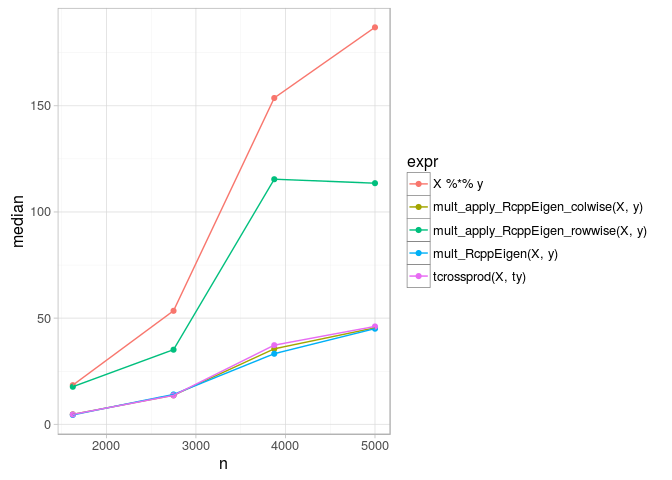
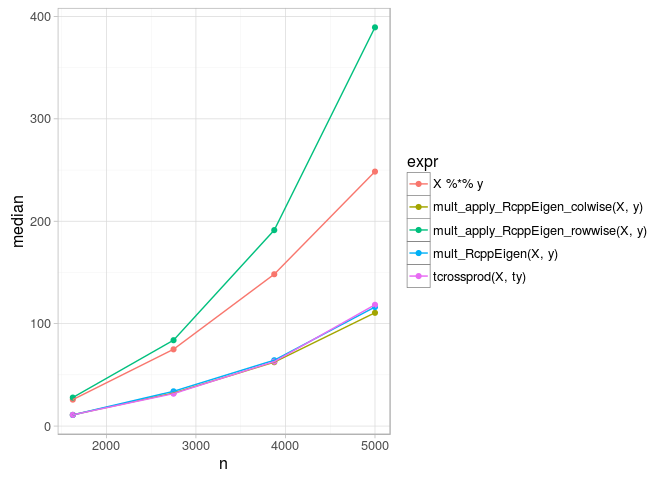
added parallel version

diff --git a/hpc/Rcpp/projects/03-RcppEigen/src/par_mult_apply_Rcpp_colwise.cpp b/hpc/Rcpp/projects/03-RcppEigen/src/par_mult_apply_Rcpp_colwise.cpp
@@ -1,0 +1,71 @@
+#include <Rcpp.h>
+
+// [[Rcpp::depends(RcppParallel)]]
+#include <RcppParallel.h>
+
+using namespace RcppParallel;
+using namespace Rcpp;
+
+struct ParMultApplyRcppColwise : public Worker
+{
+  // source matrix & vector
+  const NumericMatrix & mat;
+  const NumericVector & vec;
+  
+  // destination vector
+  NumericVector & rvec;
+
+  unsigned int nchunks; 
+     
+  // initialize 
+  ParMultApplyRcppColwise(const NumericMatrix & mat, const NumericVector & vec, NumericVector & rvec)
+    : mat(mat), vec(vec), rvec(rvec), nchunks(0) {}
+   
+  // do multiplication using loops
+  void operator()(std::size_t begin, std::size_t end) 
+  {
+    int N = mat.nrow();
+    
+    // `for` version
+    for(int j = begin; j < end; j++) {
+      double a = vec(j);
+      for(int i = 0; i < N; i++) {
+        rvec(i) += a * mat(i, j);
+      }
+    }
+    
+    ++nchunks;
+  }
+};
+
+
+// [[Rcpp::export]]
+NumericVector par_mult_apply_Rcpp_colwise(const NumericMatrix & mat, 
+  const NumericVector & vec, unsigned int chunkSize = 1, unsigned int verbose = 0)
+{
+  // variables
+  int N = mat.nrow(), K = mat.ncol();
+  
+  // allocate the vector to be returned
+  NumericVector rvec(N);
+    
+  // fill with zeros
+  for(int i = 0; i < N; i++) {
+    rvec[i] = 0;
+  }
+
+  // create the worker
+  ParMultApplyRcppColwise mult(mat, vec, rvec);
+     
+  // call it with parallelFor
+  parallelFor(0, K, mult, chunkSize);
+  
+  // print diagnostics
+  if(verbose > 0) {
+    Rcout << "#chunks: " << mult.nchunks << std::endl;
+  }
+  
+  // return  
+  return(rvec);
+  
+}

diff --git a/hpc/Rcpp/projects/03-RcppEigen/src/mult_apply_Rcpp_colwise.cpp b/hpc/Rcpp/projects/03-RcppEigen/src/mult_apply_Rcpp_colwise.cpp
@@ -28,7 +28,7 @@ NumericVector mult_apply_Rcpp_colwise(const NumericMatrix & mat,
     for(int j = 0; j < K; j++) {
       double a = vec(j);
       for(int i = 0; i < N; i++) {
-        rvec[i] +=  a * mat(i, j);
+        rvec(i) +=  a * mat(i, j);
       }
     }
   }

diff --git a/hpc/Rcpp/projects/03-RcppEigen/03-RcppEigen.md b/hpc/Rcpp/projects/03-RcppEigen/03-RcppEigen.md
@@ -15,7 +15,9 @@ Andrey Ziyatdinov
 library(microbenchmark)
 
 library(Rcpp)
+library(RcppParallel)
 ```
+
 # Column-wise storage
 
 
@@ -31,7 +33,9 @@ tX <- t(X)
 ty <- t(y)
 ```
 
-## Multiplication using `%*%`
+## Multiplication functions
+
+### Multiplication using `%*%`
 
 
 ```r
@@ -50,7 +54,7 @@ str(ty %*% tX)
  num [1, 1:1000] 2.53 2.46 2.79 2.16 2.05 ...
 ```
 
-## Multiplication using apply
+### Multiplication using apply
 
 
 ```r
@@ -71,7 +75,7 @@ str(mult_apply(X, y))
  num [1:1000] 2.53 2.46 2.79 2.16 2.05 ...
 ```
 
-## Multiplication using `crossprod`
+### Multiplication using `crossprod`
 
 
 ```r
@@ -99,7 +103,7 @@ str(crossprod(tX, y))
  num [1:1000, 1] 2.53 2.46 2.79 2.16 2.05 ...
 ```
 
-## Multiplication using `mult_RcppEigen`
+### Multiplication using `mult_RcppEigen`
 
 
 ```r
@@ -115,7 +119,7 @@ str(mult_RcppEigen(X, y))
  num [1:1000] 2.53 2.46 2.79 2.16 2.05 ...
 ```
 
-## Multiplication using `mult_apply_RcppEigen_colwise`
+### Multiplication using `mult_apply_RcppEigen_colwise`
 
 
 ```r
@@ -131,7 +135,7 @@ str(mult_apply_RcppEigen_colwise(X, y))
  num [1:1000] 2.53 2.46 2.79 2.16 2.05 ...
 ```
 
-## Multiplication using `mult_apply_RcppEigen_rowwise`
+### Multiplication using `mult_apply_RcppEigen_rowwise`
 
 
 ```r
@@ -147,7 +151,7 @@ str(mult_apply_RcppEigen_rowwise(X, y))
  num [1:1000] 2.53 2.46 2.79 2.16 2.05 ...
 ```
 
-## Multiplication using `mult_apply_Rcpp_rowwise`
+### Multiplication using `mult_apply_Rcpp_rowwise`
 
 
 ```r
@@ -163,7 +167,52 @@ str(mult_apply_Rcpp_rowwise(X, y))
  num [1:1000] 2.53 2.46 2.79 2.16 2.05 ...
 ```
 
-## Multiplication using `mult_apply_Rcpp_rowwise`
+### Multiplication using `par_mult_apply_Rcpp_rowwise`
+
+
+```r
+sourceCpp("src/par_mult_apply_Rcpp_colwise.cpp") 
+```
+
+
+```r
+str(par_mult_apply_Rcpp_colwise(X, y, chunkSize = 1, verbose = 1))
+```
+
+```
+#chunks: 10
+ num [1:1000] 2.53 2.46 2.79 2.16 2.05 ...
+```
+
+```r
+str(par_mult_apply_Rcpp_colwise(X, y, chunkSize = ncol(X), verbose = 1))
+```
+
+```
+#chunks: 1
+ num [1:1000] 2.53 2.46 2.79 2.16 2.05 ...
+```
+
+
+#### Wrapper `par_mult_apply_Rcpp_rowwise`
+
+
+
+```r
+wrap_par_mult_apply_Rcpp_colwise <- function(..., cores = -1, chunkSize = 1)
+{
+  stopifnot(require(RcppParallel))
+  
+  if(!missing(cores)) { 
+    RcppParallel::setThreadOptions(numThreads = cores)
+  }
+  
+  par_mult_apply_Rcpp_colwise(..., chunkSize = chunkSize)
+}
+```
+
+
+### Multiplication using `mult_apply_Rcpp_rowwise`
 
 
 ```r
@@ -178,6 +227,7 @@ str(mult_apply_Rcpp_colwise(X, y))
 ```
  num [1:1000] 2.53 2.46 2.79 2.16 2.05 ...
 ```
+
 
 ## Benchmarks (k << n)
 
@@ -317,3 +367,105 @@ ggplot(subset(df, n > 1000 & !(expr %in% c("X %*% y", "mult_apply_RcppEigen_roww
 ```
 
 ![](figures/bench2_plot_3-1.png) 
+
+## Benchmarks (k == n, parallel)
+
+
+```r
+nseq <- seq(500, 5000, length = 5)
+df <- ldply(nseq, function(n) {
+  n <- ceiling(n)
+  k <- n
+
+  set.seed(1)
+  X <- matrix(runif(n * k), nrow = n, ncol = k)
+  y <- runif(k)
+
+  tX <- t(X)
+  ty <- t(y)
+  
+  cat(" * n:", n, "\n")
+  
+  out <- microbenchmark(
+    mult_RcppEigen(X, y),
+    mult_apply_Rcpp_colwise(X, y), 
+    wrap_par_mult_apply_Rcpp_colwise(X, y, chunkSize = n, cores = 1),
+    wrap_par_mult_apply_Rcpp_colwise(X, y, cores = 2),  
+    times = 10)
+  
+  df <- subset(as.data.frame(summary(out)), select = c("expr", "median"))
+  df$n <- n
+  
+  return(df)
+})  
+```
+
+```
+ * n: 500 
+ * n: 1625 
+ * n: 2750 
+ * n: 3875 
+ * n: 5000 
+```
+
+
+
+```r
+ggplot(df, aes(n, median, color = expr)) + geom_point() + geom_line()
+```
+
+![](figures/bench3_plot-1.png) 
+
+
+```r
+ggplot(subset(df, n > 1000), aes(n, median, color = expr)) + geom_point() + geom_line()
+```
+
+![](figures/bench3_plot_2-1.png) 
+
+### Benchmarks (k == n, parallel, larger matrices)
+
+
+```r
+nseq <- seq(3000, 7000, length = 5)
+df <- ldply(nseq, function(n) {
+  n <- ceiling(n)
+  k <- n
+
+  set.seed(1)
+  X <- matrix(runif(n * k), nrow = n, ncol = k)
+  y <- runif(k)
+
+  tX <- t(X)
+  ty <- t(y)
+  
+  cat(" * n:", n, "\n")
+  
+  out <- microbenchmark(
+    mult_RcppEigen(X, y),
+    wrap_par_mult_apply_Rcpp_colwise(X, y, chunkSize = 100, cores = 2),  
+    times = 10)
+  
+  df <- subset(as.data.frame(summary(out)), select = c("expr", "median"))
+  df$n <- n
+  
+  return(df)
+})  
+```
+
+```
+ * n: 3000 
+ * n: 4000 
+ * n: 5000 
+ * n: 6000 
+ * n: 7000 
+```
+
+
+
+```r
+ggplot(df, aes(n, median, color = expr)) + geom_point() + geom_line()
+```
+
+![](figures/bench4_plot-1.png) 
+
